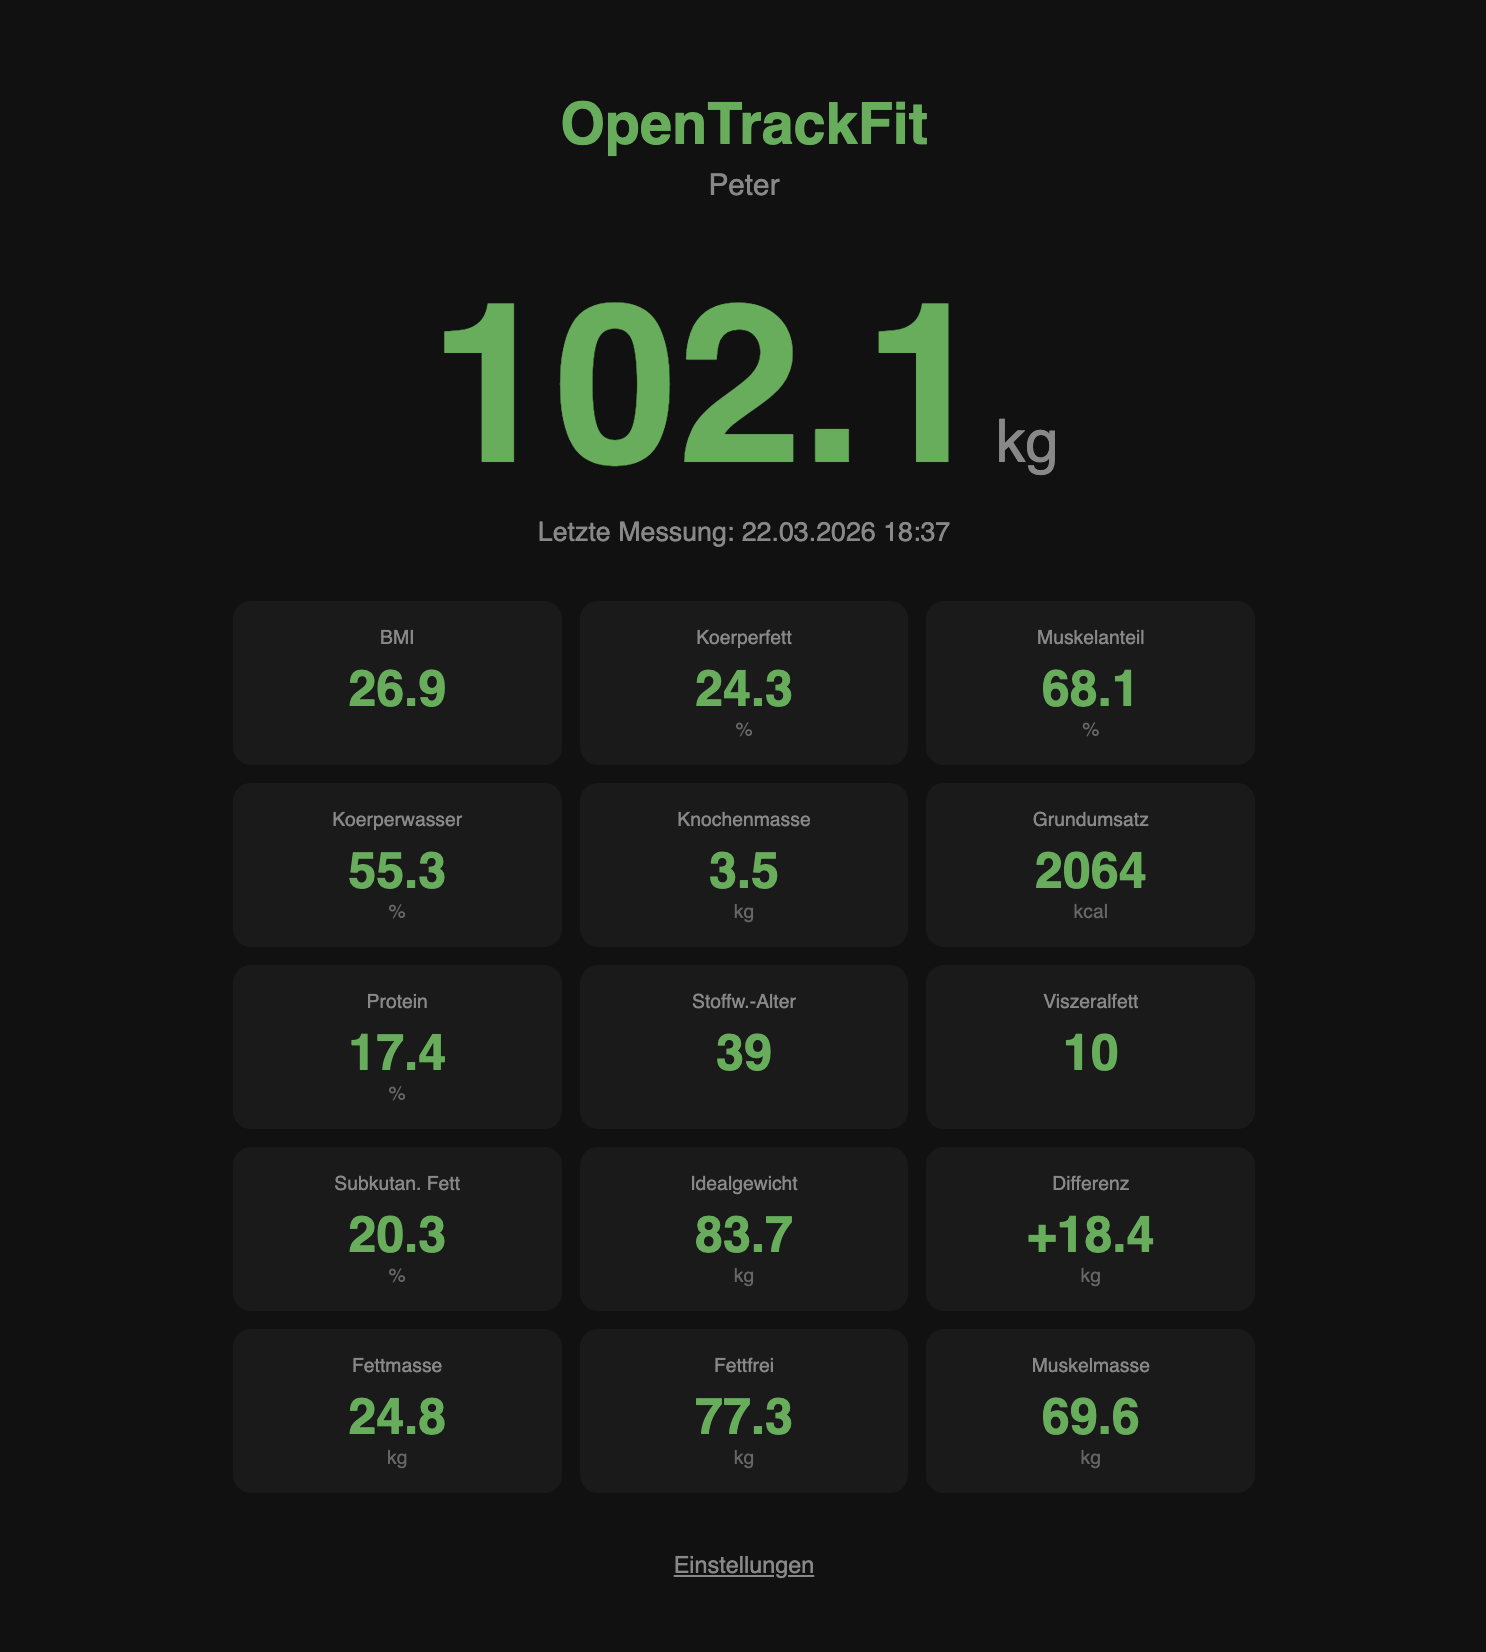
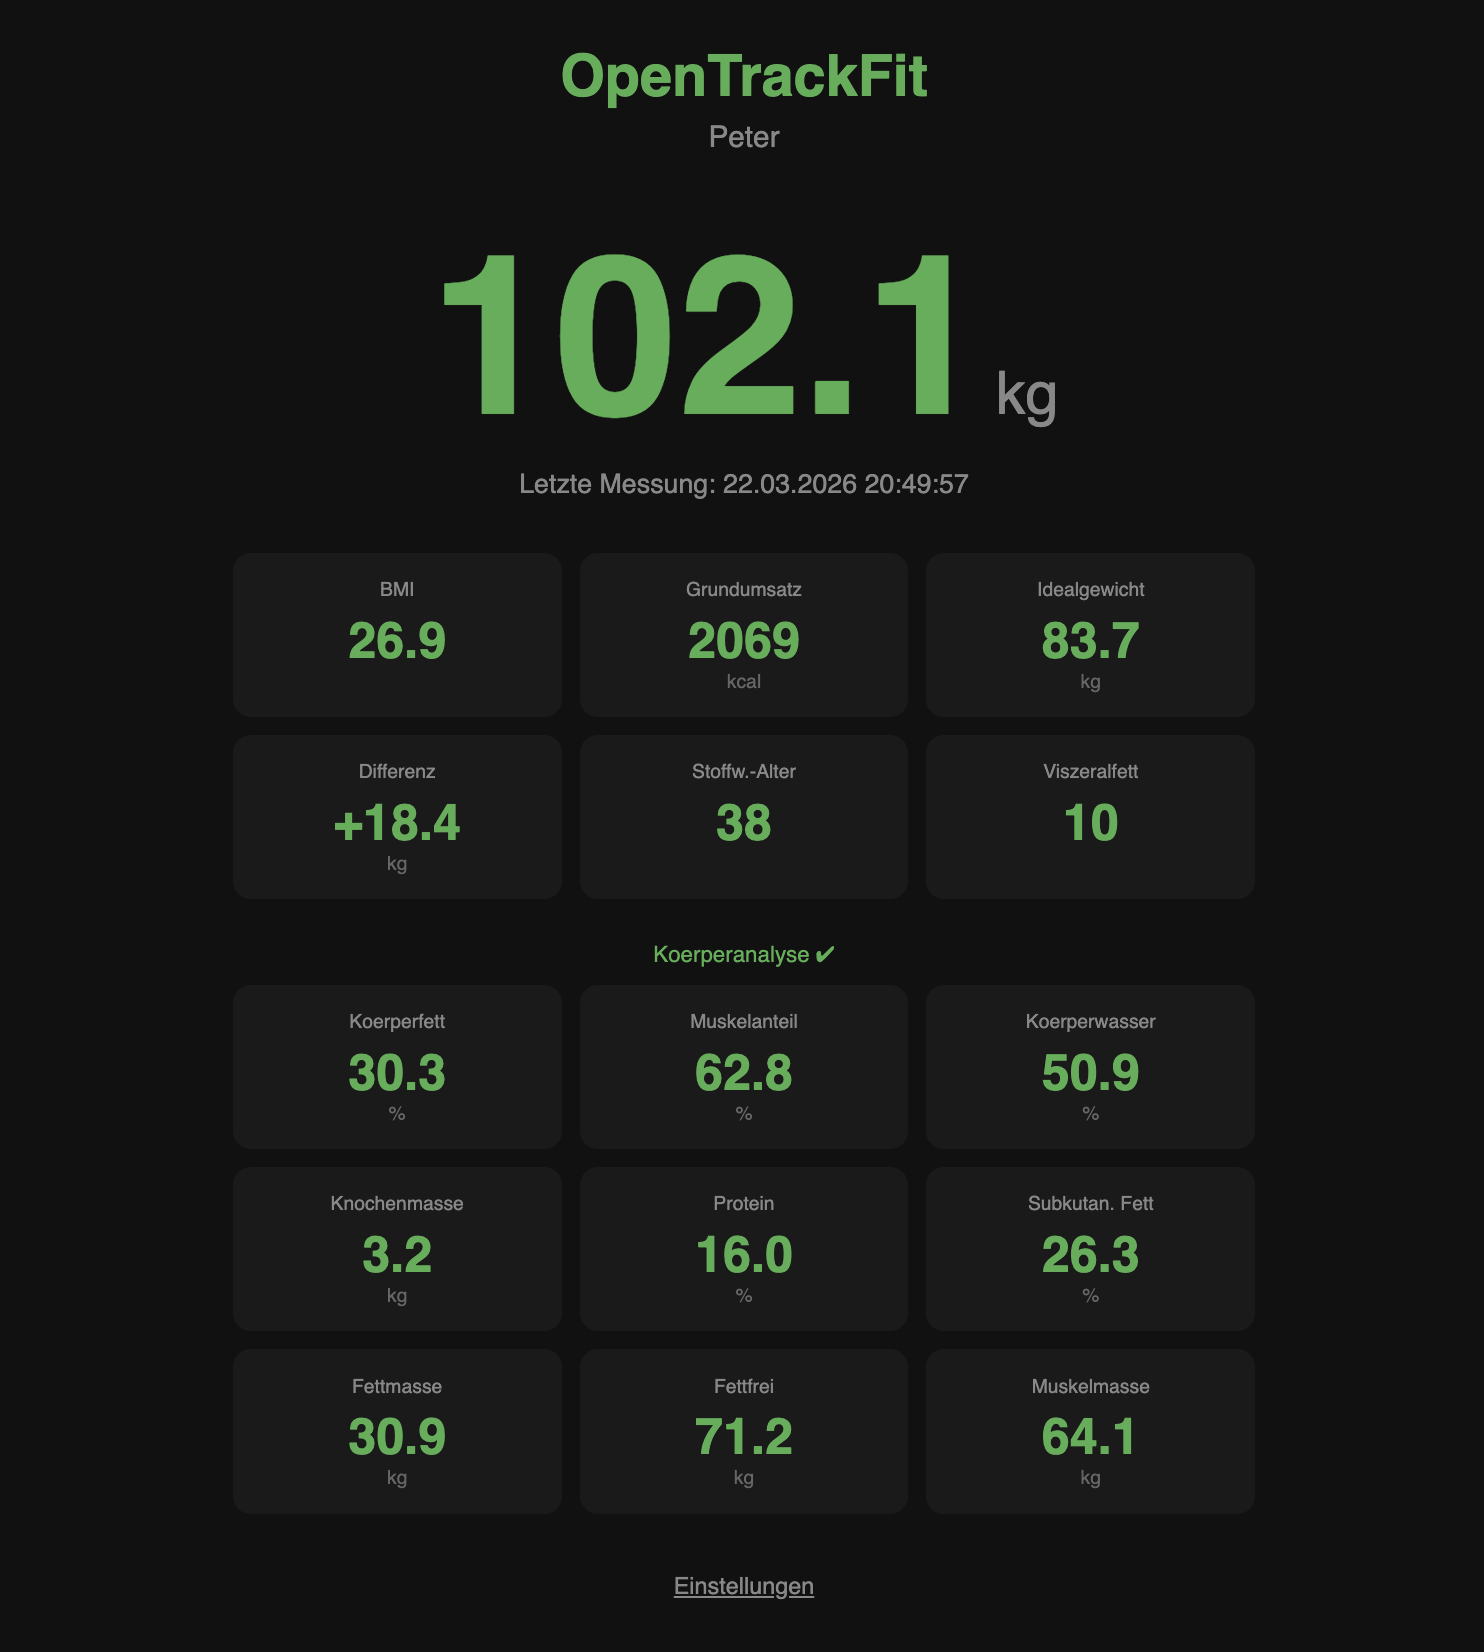
Enhance body composition analysis with BIA impedance data and update README for new features

diff --git a/CLAUDE.md b/CLAUDE.md
@@ -18,7 +18,7 @@ Single-file firmware (`src/main.cpp`) with these subsystems:
 - **BLE**: Non-blocking scan for "FitTrack" scale, connects, subscribes to FFB2/FFB3 notifications
 - **WiFi**: STA mode with AP fallback (config portal with SSID scan)
 - **WebServer**: Weight display page (STA) / WiFi+MQTT+HTTP config (AP and STA via `/setup`)
-- **Preferences**: Persistent settings in NVS (namespaces: `wifi`, `mqtt`, `http`)
+- **Preferences**: Persistent settings in NVS (namespaces: `wifi`, `mqtt`, `http`, `prof`)
 - **MQTT**: PubSubClient, connects per measurement, publishes JSON, disconnects
 - **HTTP**: HTTPClient POST to configured webhook URL
 - **NTP**: German timezone (CET/CEST) via `pool.ntp.org`, synced after WiFi connect
@@ -32,19 +32,37 @@ Single-file firmware (`src/main.cpp`) with these subsystems:
   - `FFB3`: Write + Notify (command/response) — also subscribed for data
 - **Packet format** (8 bytes on FFB2):
   - Bytes 0-1: Header `AC 02`
-  - Bytes 2-3: Weight in 0.1 kg, big-endian (e.g., `04 03` = 1027 = 102.7 kg)
+  - Bytes 2-3: Payload (weight or post-measurement data), big-endian
   - Bytes 4-5: Extra data
-  - Byte 6: Type — `CE` = live, `CA` = stable/final, `CB` = post-measurement
+  - Byte 6: Type — `CE` = live, `CA` = stable/final, `CB` = post-measurement, `CC` = end-of-sequence
   - Byte 7: Checksum (low byte of sum of bytes 2-6)
+- **Measurement sequence**:
+  1. `CE` packets: Live weight updates (bytes 2-3 = weight in 0.1 kg, e.g., `04 03` = 1027 = 102.7 kg)
+  2. `CA` packet: Final stable weight (same format as CE)
+  3. `CB` packets: Post-measurement data sequence:
+     - `FD 00`: First CB packet (purpose unknown)
+     - `FD 01`: **Impedance data** — bytes 4-5 = BIA impedance in ohms (e.g., `02 4D` = 589Ω). **Only sent when barefoot** (skin contact with electrodes)
+     - `FD FF`, `FB 00`, `FA 00`: Additional data (only sent when no impedance / socks)
+  4. `CC` packets (e.g., `FE 10`): End of post-measurement sequence (only sent in socks/no-impedance case)
+- **Barefoot vs. socks**: The scale auto-detects skin contact. Barefoot → sends `FD 01` with impedance, then stops. Socks → sends `FD FF`/`FB 00`/`FA 00` + `CC` packets instead, no `FD 01`.
+- **Forwarding triggers** (whichever comes first): `FD 01` (barefoot), `CC` packet (socks), or BLE disconnect (fallback)
 - Scale only activates BLE when someone steps on it
-- Scale disconnects after measurement
+- Scale may stay connected for consecutive measurements or disconnect after one
+
+## Body Composition
+- **Always calculated** (requires profile with age, height, gender): BMI, BMR (Mifflin-St Jeor), metabolic age, visceral fat, ideal weight, weight control
+- **BIA-dependent** (requires impedance from barefoot measurement): body fat %, muscle %, water %, bone mass, protein %, subcutaneous fat %, fat mass, fat-free weight, muscle mass
+- **Formulas**: Kushner/Schoeller for fat-free mass from impedance, fixed FFM ratios (90% muscle, 4.5% bone, 23% protein, 73% water)
+- **Graceful degradation**: When no impedance available, BIA fields are `null` in JSON and "k.A." in UI. `body_analysis` boolean in JSON indicates availability.
 
 ## Important Design Decisions
-- **Deferred forwarding**: BLE callbacks set `doForward = true`, main loop calls `forwardWeight()`. Network operations (MQTT/HTTP) in BLE callback context crash the ESP32.
+- **Deferred forwarding**: BLE callbacks set flags (`doForward`, `weightReady`), main loop calls `forwardWeight()`. Network operations (MQTT/HTTP) in BLE callback context crash the ESP32.
+- **Three-trigger forwarding**: Forward on FD 01 (barefoot/impedance), CC packet (socks), or disconnect (fallback). `weightReady` flag prevents double-forwarding.
+- **Atomic data update**: `bodyData` is only written in `forwardWeight()` → API always returns a complete measurement, no intermediate states visible to the frontend.
 - **No BLE reconnect cooldown**: Removed because it caused missed connections when stepping on the scale again quickly.
 - **Non-blocking BLE scan**: `pBLEScan->start(5, callback, false)` — duration must be >0 (duration 0 never completes). Keeps web server responsive.
-- **Separate settings forms**: WiFi, MQTT, and HTTP each have their own save endpoint. MQTT/HTTP save via AJAX with inline feedback (no page reload). WiFi save triggers a connection test and restart.
-- **No live weight display**: Only the last final measurement is shown (with timestamp).
+- **Separate settings forms**: WiFi, MQTT, HTTP, and profiles each have their own save endpoint. MQTT/HTTP save via AJAX with inline feedback (no page reload). WiFi save triggers a connection test and restart.
+- **No live weight display**: Only the last final measurement is shown (with timestamp and toast notification on update).
 
 ## Web Endpoints
 - `GET /` — Weight page (STA) or config page (AP)
@@ -52,10 +70,13 @@ Single-file firmware (`src/main.cpp`) with these subsystems:
 - `POST /save/wifi` — Save WiFi credentials (tests connection, restarts on success)
 - `POST /save/mqtt` — Save MQTT settings (AJAX, returns JSON)
 - `POST /save/http` — Save HTTP webhook (AJAX, returns JSON)
-- `GET /api/last-weight-data` — Last measurement JSON (`weight`, `time`)
+- `POST /save/profile` — Save user profile (AJAX, returns JSON)
+- `POST /delete/profile` — Delete user profile (AJAX, returns JSON)
+- `POST /api/set-profile` — Set active profile (AJAX, returns JSON)
+- `GET /api/last-weight-data` — Last measurement JSON (weight, body composition, `body_analysis` flag)
 - `GET /api/docs` — API documentation JSON
 - `GET /api/scan` — WiFi network scan (used by config page)
-- `GET /api/settings` — Current MQTT/HTTP settings (used by config page to prefill)
+- `GET /api/settings` — Current settings and profiles (used by config page to prefill)
 
 ## Key Constants
 All in `src/main.cpp` top section:

diff --git a/README.md b/README.md
@@ -23,8 +23,9 @@ OpenTrackFit works with BLE body composition scales that use the **ElinkThings/S
 ## Features
 
 - Automatic BLE connection to scale when someone steps on it
-- Last measurement displayed on a responsive web page with body composition tiles
-- **Body composition analysis**: BMI, body fat %, muscle mass, water %, bone mass, BMR, protein %, metabolic age, visceral fat, and more — calculated from weight + user profile
+- Last measurement displayed on a responsive web page with body composition tiles and toast notification on update
+- **Body composition analysis**: BMI, body fat %, muscle mass, water %, bone mass, BMR, protein %, metabolic age, visceral fat, and more — calculated from weight + impedance + user profile
+- **BIA impedance detection**: Automatic barefoot/socks detection — full body analysis when barefoot, basic metrics when wearing socks
 - **Multi-profile support**: Create up to 8 user profiles (name, gender, age, height) — active profile shown on home page
 - WiFi configuration via captive portal with SSID scan (no hardcoded credentials)
 - MQTT publishing of full body composition data to any broker
@@ -69,8 +70,11 @@ pio device monitor
 ### Usage
 
 1. Open `http://opentrackfit.local` (or the IP shown in the serial log)
-2. Step on the scale — the weight measurement begins automatically
-3. The final weight and timestamp are displayed after the measurement stabilizes
+2. Step on the scale **barefoot** — the weight measurement begins automatically
+3. The final weight, body composition, and timestamp are displayed after the measurement stabilizes
+4. A toast notification appears when new data arrives
+
+> **Tip**: For full body composition analysis (body fat, muscle mass, water, etc.), step on the scale barefoot. With socks, only basic metrics (BMI, BMR, metabolic age) are available.
 
 | Home | Settings |
 |------|----------|
@@ -93,28 +97,30 @@ Navigate to `/setup` to configure:
 | `GET /api/settings` | Current settings and profiles |
 | `GET /api/docs` | API documentation |
 
-Example response:
+Example response (barefoot measurement):
 ```json
 {
   "weight": 102.1,
-  "time": "22.03.2026 18:37",
+  "time": "22.03.2026 20:30:45",
   "profile": "Peter",
-  "bmi": 26.9,
-  "body_fat_pct": 24.3,
-  "muscle_pct": 68.1,
-  "water_pct": 55.3,
-  "bone_mass": 3.5,
-  "bmr": 2064,
-  "protein_pct": 17.4,
+  "impedance": 592,
+  "body_analysis": true,
+  "bmi": 28.3,
+  "bmr": 2038,
   "metabolic_age": 39,
-  "visceral_fat": 10,
-  "subcutaneous_fat_pct": 20.3,
-  "ideal_weight": 83.7,
-  "weight_control": 18.4,
-  "fat_mass": 24.8,
-  "fat_free_weight": 77.3,
-  "muscle_mass": 69.6,
-  "protein_mass": 17.8
+  "visceral_fat": 11,
+  "ideal_weight": 79.4,
+  "weight_control": 22.7,
+  "body_fat_pct": 32.0,
+  "muscle_pct": 61.2,
+  "water_pct": 49.6,
+  "bone_mass": 3.1,
+  "protein_pct": 15.6,
+  "protein_mass": 16.0,
+  "subcutaneous_fat_pct": 27.6,
+  "fat_mass": 32.7,
+  "fat_free_weight": 69.4,
+  "muscle_mass": 62.5
 }
 ```
 
@@ -129,10 +135,27 @@ mDNS:  http://opentrackfit.local
 FitTrack found!
 Connecting to 03:b3:ec:c1:cf:24...
 Connected. Waiting for measurement...
-
-  Measuring: 102.6 kg
-  Measuring: 102.7 kg
->>> FINAL WEIGHT: 102.7 kg <<<
+..................
+>>> FINAL WEIGHT: 102.1 kg <<<
+>>> IMPEDANCE: 592 ohms <<<
+  Using BIA impedance: 592 ohms
+--- Body Composition ---
+  Impedance:      592 ohms
+  BMI:            28.3
+  Body Fat:       32.0 %
+  Muscle:         61.2 % (62.5 kg)
+  Water:          49.6 %
+  Bone Mass:      3.1 kg
+  BMR:            2038 kcal
+  Protein:        15.6 % (16.0 kg)
+  Metabolic Age:  39
+  Visceral Fat:   11
+  Subcut. Fat:    27.6 %
+  Fat Mass:       32.7 kg
+  Fat-Free:       69.4 kg
+  Ideal Weight:   79.4 kg
+  Weight Control: 22.7 kg
+------------------------
 MQTT published to opentrackfit/weight
 HTTP POST https://example.com/webhook -> 200
 >> Scale disconnected. Rescanning...
